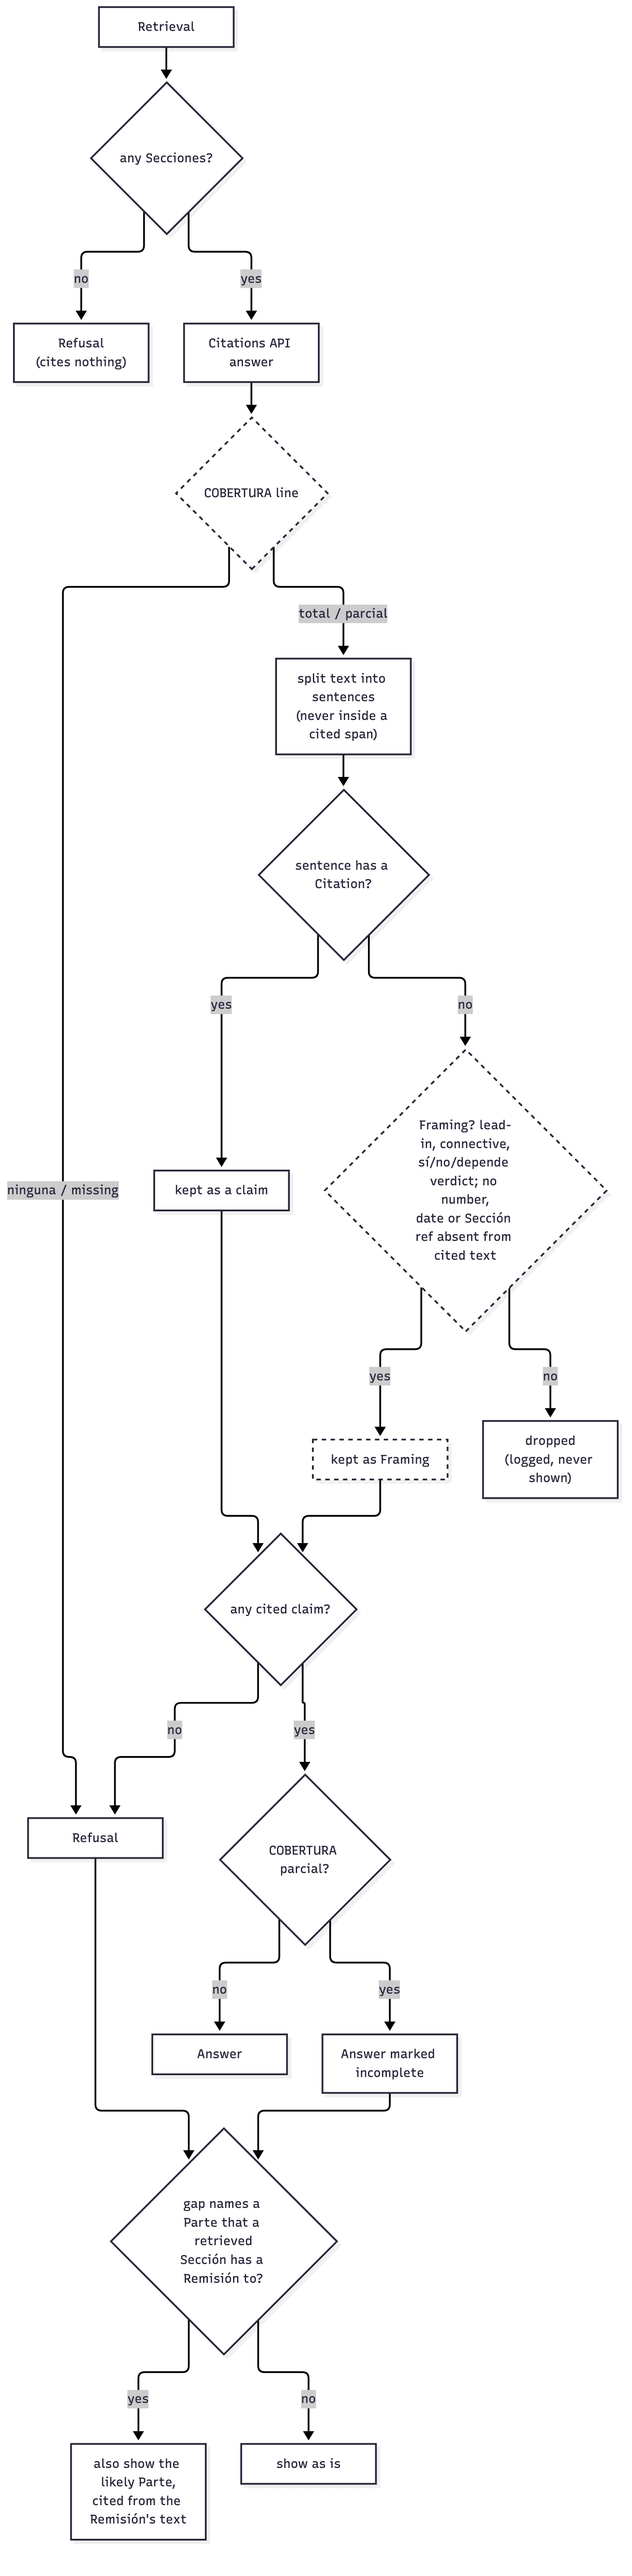
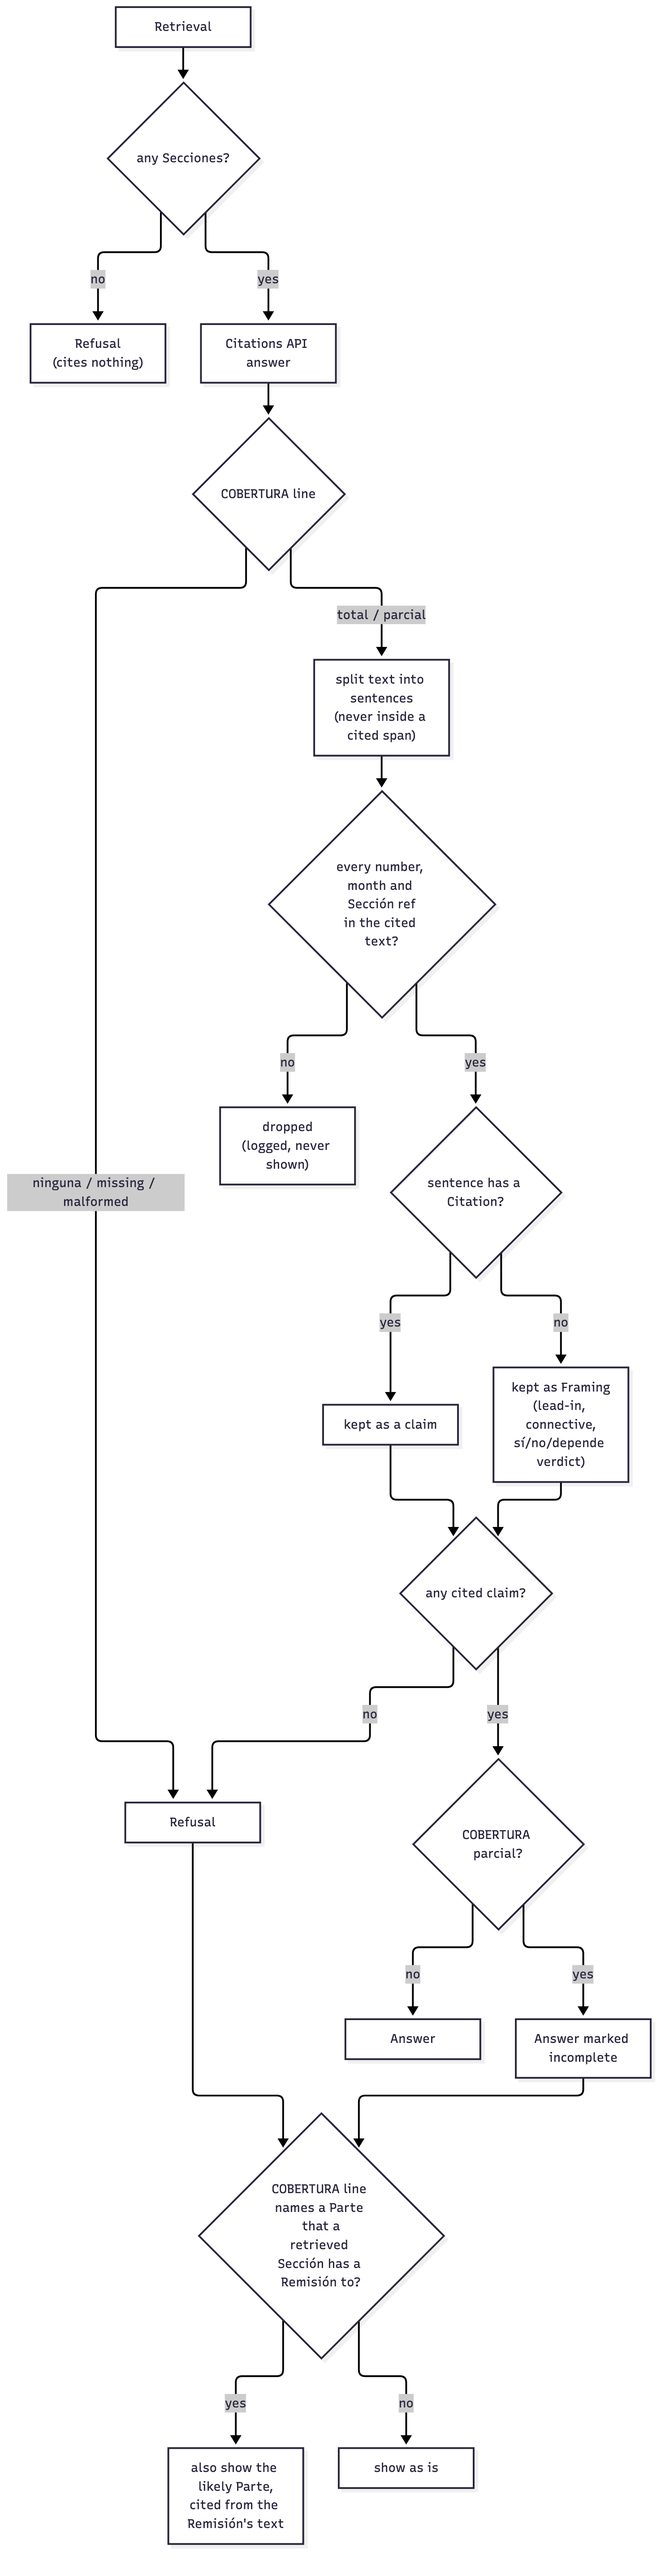
docs: diagrams show Framing, the coverage line and Answer layout

diff --git a/README.md b/README.md
@@ -51,7 +51,7 @@ The RAAC is a shelf of rulebooks, one per Parte. Searching a whole Parte is expe
 
 ## Grounded or silent
 
-Every claim shown carries a Citation; only Framing (a lead-in, a connective, a sí/no/depende verdict) may go uncited ([ADR 0003](docs/adr/0003-uncited-framing-in-answers.md)). This is how the Answerer decides what to show; the dashed steps are planned in #38, and until then every uncited sentence is dropped:
+Every claim shown carries a Citation; only Framing (a lead-in, a connective, a sí/no/depende verdict) may go uncited ([ADR 0003](docs/adr/0003-uncited-framing-in-answers.md)). This is how the Answerer decides what to show:
 
 <p align="center"><img src="docs/diagrams/grounding.png" alt="Grounded or silent: what the Answerer shows" width="480"></p>
 
